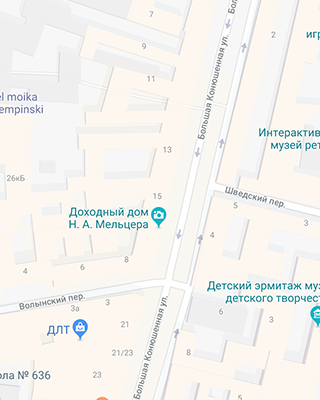
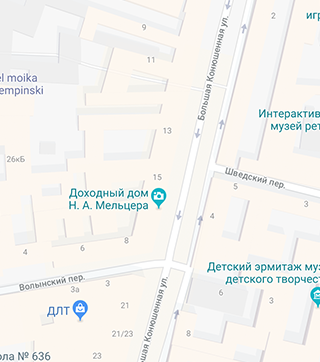
Стилизован блок с логотипом в футере

diff --git a/source/index.html b/source/index.html
@@ -107,7 +107,7 @@
             <address class="address__item">ул. Большая Конюшенная, д. 19/8 Санкт-Петербург</address>
           </div>
           <div class="location__map">
-            <img class="location__map-image" src="../../img/bg-map-mobile@1x.png" width="320" height="400" alt="Карта">
+            <img class="location__map-image" src="../../img/bg-map-mobile@1x.png" width="320" height="362" alt="Карта">
           </div>
         </div>
       </section>
@@ -117,7 +117,7 @@
       <div class="footer__wrapper">
         <section class="footer__logo">
           <a class="footer__link">
-            <img class="footer__logo-image" src="http://placehold.it/128x24" width="128" height="24" alt="Cat Energy">
+            <img class="footer__logo-image" src="../../img/logo-footer.svg" width="128" height="24" alt="Cat Energy">
           </a>
         </section>
         <section class="footer__social social">

diff --git a/source/sass/blocks/footer.scss b/source/sass/blocks/footer.scss
@@ -1,0 +1,16 @@
+.footer__wrapper {
+  @include align-mobile;
+
+  background-color: #f2f2f2;
+}
+
+.footer__link {
+  padding-top: 37px;
+  padding-bottom: 26px;
+
+  display: block;
+
+  text-align: center;
+
+  border-bottom: $border-bottom;
+}

diff --git a/source/sass/blocks/location.scss b/source/sass/blocks/location.scss
@@ -2,3 +2,7 @@
   width: 320px;
   margin: 0 auto;
 }
+
+.location__map {
+    background-color: #f2f2f2;
+}
